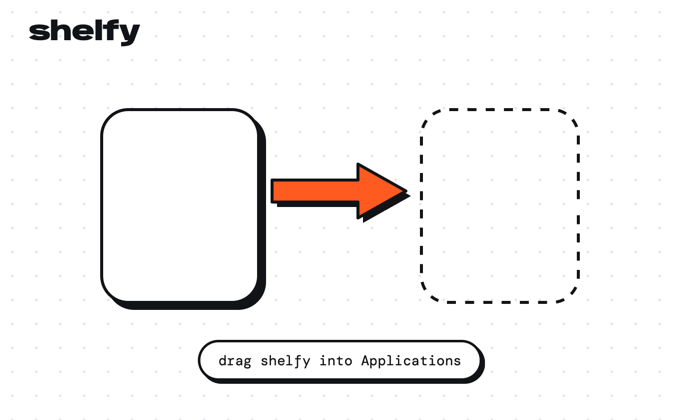
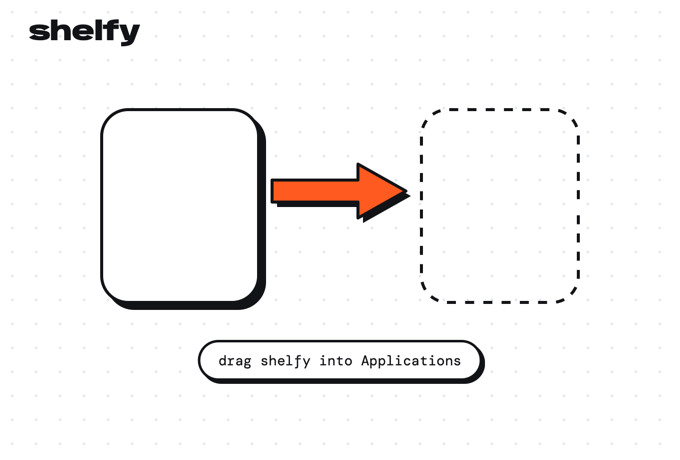
Fit the disk image window under Finder's title and path bars
Finder on macOS 26 sizes a disk image window by its whole frame, so the
32-point title bar and a visitor's path bar cut off the bottom of the
background. The window is now 480 points tall over a 680 x 460 background
whose artwork sits in the top 400 points; the renderer takes the image size
from the page.

diff --git a/scripts/make-dmg-background.swift b/scripts/make-dmg-background.swift
@@ -1,13 +1,13 @@
-// Renders the disk image background page to background.png (680 × 420) and background@2x.png.
+// Renders the disk image background page to background.png and background@2x.png.
 //
 //   swift scripts/make-dmg-background.swift packaging/dmg/background.html packaging/dmg
 //
+// The images take the size of the page's first element (680 × 460 points for Shelfy's window).
 // WebKit draws the page exactly as Safari would. The fonts load from Google Fonts, so this needs
 // a network connection; dmgbuild combines the two PNGs into a Retina TIFF when it builds the image.
 import AppKit
 import WebKit
 
-let canvas = CGSize(width: 680, height: 420)
 let arguments = CommandLine.arguments
 guard arguments.count == 3 else {
     FileHandle.standardError.write(Data("usage: swift scripts/make-dmg-background.swift <page.html> <output-directory>\n".utf8))
@@ -15,6 +15,7 @@ guard arguments.count == 3 else {
 }
 let page = URL(fileURLWithPath: arguments[1]).standardizedFileURL
 let outputDirectory = URL(fileURLWithPath: arguments[2], isDirectory: true)
+let viewport = CGSize(width: 1200, height: 1000)
 
 func fail(_ message: String) -> Never {
     FileHandle.standardError.write(Data("make-dmg-background: \(message)\n".utf8))
@@ -22,25 +23,25 @@ func fail(_ message: String) -> Never {
 }
 
 /// Draws the snapshot into a bitmap of exactly `scale` pixels per point and writes it as PNG.
-func write(_ image: NSImage, scale: Int, named name: String) throws {
-    let rep = NSBitmapImageRep(bitmapDataPlanes: nil, pixelsWide: Int(canvas.width) * scale,
-                               pixelsHigh: Int(canvas.height) * scale, bitsPerSample: 8, samplesPerPixel: 4,
+func write(_ image: NSImage, size: CGSize, scale: Int, named name: String) throws {
+    let rep = NSBitmapImageRep(bitmapDataPlanes: nil, pixelsWide: Int(size.width) * scale,
+                               pixelsHigh: Int(size.height) * scale, bitsPerSample: 8, samplesPerPixel: 4,
                                hasAlpha: true, isPlanar: false, colorSpaceName: .deviceRGB, bytesPerRow: 0, bitsPerPixel: 0)!
-    rep.size = canvas
+    rep.size = size
     NSGraphicsContext.saveGraphicsState()
     NSGraphicsContext.current = NSGraphicsContext(bitmapImageRep: rep)
     NSGraphicsContext.current?.imageInterpolation = .high
-    image.draw(in: CGRect(origin: .zero, size: canvas), from: .zero, operation: .copy, fraction: 1)
+    image.draw(in: CGRect(origin: .zero, size: size), from: .zero, operation: .copy, fraction: 1)
     NSGraphicsContext.restoreGraphicsState()
     let url = outputDirectory.appendingPathComponent(name)
     try rep.representation(using: .png, properties: [:])!.write(to: url)
-    print(url.path)
+    print("\(url.path) (\(Int(size.width) * scale) × \(Int(size.height) * scale))")
 }
 
 final class Renderer: NSObject, WKNavigationDelegate {
-    let window = NSWindow(contentRect: CGRect(origin: CGPoint(x: -10_000, y: -10_000), size: canvas),
+    let window = NSWindow(contentRect: CGRect(origin: CGPoint(x: -10_000, y: -10_000), size: viewport),
                           styleMask: .borderless, backing: .buffered, defer: false)
-    let webView = WKWebView(frame: CGRect(origin: .zero, size: canvas))
+    let webView = WKWebView(frame: CGRect(origin: .zero, size: viewport))
 
     func start() {
         window.contentView = webView
@@ -50,10 +51,17 @@ final class Renderer: NSObject, WKNavigationDelegate {
     }
 
     func webView(_ webView: WKWebView, didFinish navigation: WKNavigation!) {
-        webView.callAsyncJavaScript("await document.fonts.ready; return document.fonts.size", arguments: [:], in: nil,
-                                    in: .page) { _ in
+        let measure = """
+            await document.fonts.ready;
+            const box = document.body.firstElementChild.getBoundingClientRect();
+            return [box.width, box.height];
+            """
+        webView.callAsyncJavaScript(measure, arguments: [:], in: nil, in: .page) { result in
+            guard case .success(let value) = result, let box = value as? [Double], box.count == 2,
+                  box[0] >= 1, box[1] >= 1 else { fail("could not measure the page: \(result)") }
+            let size = CGSize(width: box[0].rounded(), height: box[1].rounded())
             // Give the last layout a moment to paint before capturing.
-            DispatchQueue.main.asyncAfter(deadline: .now() + 0.5) { self.capture() }
+            DispatchQueue.main.asyncAfter(deadline: .now() + 0.5) { self.capture(size) }
         }
     }
 
@@ -61,16 +69,16 @@ final class Renderer: NSObject, WKNavigationDelegate {
         fail("could not load \(page.path): \(error.localizedDescription)")
     }
 
-    func capture() {
+    func capture(_ size: CGSize) {
         let configuration = WKSnapshotConfiguration()
-        configuration.rect = CGRect(origin: .zero, size: canvas)
+        configuration.rect = CGRect(origin: .zero, size: size)
         // Ask for 2× pixels whatever the current display's scale.
-        configuration.snapshotWidth = NSNumber(value: Double(canvas.width) * 2 / Double(window.backingScaleFactor))
+        configuration.snapshotWidth = NSNumber(value: Double(size.width) * 2 / Double(window.backingScaleFactor))
         webView.takeSnapshot(with: configuration) { image, error in
             guard let image else { fail("snapshot failed: \(error?.localizedDescription ?? "unknown error")") }
             do {
-                try write(image, scale: 1, named: "background.png")
-                try write(image, scale: 2, named: "background@2x.png")
+                try write(image, size: size, scale: 1, named: "background.png")
+                try write(image, size: size, scale: 2, named: "background@2x.png")
                 exit(0)
             } catch {
                 fail("could not write the images: \(error.localizedDescription)")

diff --git a/packaging/dmg/background.html b/packaging/dmg/background.html
@@ -1,10 +1,14 @@
 <!doctype html>
 <!--
-  The Shelfy disk image window background ("Grid paper"), 680 × 420 points.
+  The Shelfy disk image window background ("Grid paper"), 680 × 460 points.
   Finder draws the two icons and their labels on top: Shelfy.app centered at (180, 190) and
   the Applications link at (500, 190), 128-point icons with labels below (see settings.py).
   Finder always draws those labels dark on a window with a background picture, so the label
-  areas stay light. Regenerate background.png and background@2x.png with:
+  areas stay light.
+  The window is 480 points tall including its 32-point title bar. Finder's path and status
+  bars follow the visitor's own Finder settings and cover the bottom of the window when shown,
+  so everything sits in the top 400 points and the rest is plain dot grid.
+  Regenerate background.png and background@2x.png with:
     swift scripts/make-dmg-background.swift packaging/dmg/background.html packaging/dmg
 -->
 <html lang="en">
@@ -25,7 +29,7 @@
       .window {
         position: relative;
         width: 680px;
-        height: 420px;
+        height: 460px;
         overflow: hidden;
         background-color: #ffffff;
         background-image: radial-gradient(#e2e6eb 1.1px, transparent 1.5px);

diff --git a/packaging/dmg/settings.py b/packaging/dmg/settings.py
@@ -18,8 +18,10 @@ hide_extensions = [appname]
 icon = defines["icon"]  # noqa: F821
 background = defines["background"]  # noqa: F821
 
-# The window's content area is exactly the 680 × 420 point background.
-window_rect = ((200, 140), (680, 420))
+# Finder sizes the whole window, title bar included: 480 points is the 32-point title bar
+# over the 680 × 460 background. A path or status bar, when the visitor's Finder shows one,
+# covers only plain dot grid at the bottom.
+window_rect = ((200, 120), (680, 480))
 default_view = "icon-view"
 show_status_bar = False
 show_tab_view = False
